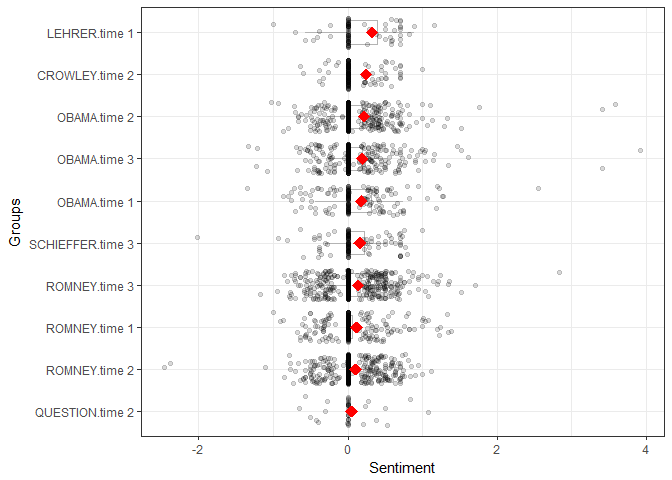
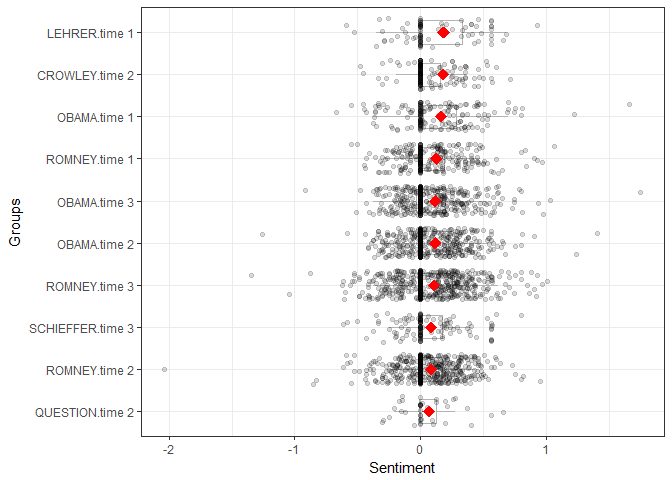
* `sentimentr` now uses the Jockers (2017) dictionary by default rather than the   Hu & Liu (2004).  THis may result in breaks to backwards compatibility,   hence the major version bump (1.0.0).

diff --git a/README.md b/README.md
@@ -11,7 +11,7 @@ Status](https://travis-ci.org/trinker/sentimentr.svg?branch=master)](https://tra
 Status](https://coveralls.io/repos/trinker/sentimentr/badge.svg?branch=master)](https://coveralls.io/r/trinker/sentimentr?branch=master)
 [![DOI](https://zenodo.org/badge/5398/trinker/sentimentr.svg)](https://zenodo.org/badge/latestdoi/5398/trinker/sentimentr)
 [![](http://cranlogs.r-pkg.org/badges/sentimentr)](https://cran.r-project.org/package=sentimentr)
-<a href="https://img.shields.io/badge/Version-0.5.3-orange.svg"><img src="https://img.shields.io/badge/Version-0.5.4-orange.svg" alt="Version"/></a>
+<a href="https://img.shields.io/badge/Version-1.0.0-orange.svg"><img src="https://img.shields.io/badge/Version-1.0.0-orange.svg" alt="Version"/></a>
 </p>
 <img src="inst/sentimentr_logo/r_sentimentr.png" width="150" alt="readability Logo">
 
@@ -109,52 +109,52 @@ why does it matter?***
 <tbody>
 <tr class="odd">
 <td align="left">Cannon reviews</td>
-<td align="right">20%</td>
+<td align="right">21%</td>
 <td align="right">23%</td>
-<td align="right">9%</td>
+<td align="right">8%</td>
 <td align="right">12%</td>
 </tr>
 <tr class="even">
 <td align="left">2012 presidential debate</td>
 <td align="right">23%</td>
-<td align="right">20%</td>
+<td align="right">18%</td>
 <td align="right">1%</td>
 <td align="right">11%</td>
 </tr>
 <tr class="odd">
 <td align="left">Trump speeches</td>
 <td align="right">12%</td>
-<td align="right">15%</td>
-<td align="right">2%</td>
+<td align="right">14%</td>
+<td align="right">3%</td>
 <td align="right">10%</td>
 </tr>
 <tr class="even">
 <td align="left">Trump tweets</td>
-<td align="right">20%</td>
+<td align="right">19%</td>
 <td align="right">18%</td>
 <td align="right">4%</td>
-<td align="right">5%</td>
+<td align="right">4%</td>
 </tr>
 <tr class="odd">
 <td align="left">Dylan songs</td>
-<td align="right">19%</td>
-<td align="right">6%</td>
-<td align="right">2%</td>
-<td align="right">7%</td>
+<td align="right">4%</td>
+<td align="right">10%</td>
+<td align="right">0%</td>
+<td align="right">4%</td>
 </tr>
 <tr class="even">
 <td align="left">Austen books</td>
 <td align="right">21%</td>
-<td align="right">19%</td>
+<td align="right">18%</td>
 <td align="right">6%</td>
 <td align="right">11%</td>
 </tr>
 <tr class="odd">
 <td align="left">Hamlet</td>
-<td align="right">27%</td>
-<td align="right">18%</td>
+<td align="right">26%</td>
+<td align="right">17%</td>
 <td align="right">2%</td>
-<td align="right">18%</td>
+<td align="right">16%</td>
 </tr>
 </tbody>
 </table>
@@ -255,9 +255,9 @@ The equation below describes the augmented dictionary method of
 **sentimentr** that may give better results than a simple lookup
 dictionary approach that does not consider valence shifters. The
 equation used by the algorithm to assign value to polarity of each
-sentence fist utilizes the a sentiment dictionary (e.g., Hu and Liu,
-[2004](http://www.cs.uic.edu/~liub/publications/kdd04-revSummary.pdf))
-to tag polarized words. Each paragraph
+sentence fist utilizes the a sentiment dictionary (e.g., Jockers,
+[(2017)](https://github.com/mjockers/syuzhet)) to tag polarized words.
+Each paragraph
 (*p*<sub>*i*</sub> = {*s*<sub>1</sub>, *s*<sub>2</sub>, ..., *s*<sub>*n*</sub>})
 composed of sentences, is broken into element sentences
 (*s*<sub>*i*</sub>, *j* = {*w*<sub>1</sub>, *w*<sub>2</sub>, ..., *w*<sub>*n*</sub>})
@@ -274,10 +274,12 @@ For example it may be a cell level response in a questionnaire composed
 of sentences.
 
 The words in each sentence (*w*<sub>*i*, *j*, *k*</sub>) are searched
-and compared to a dictionary of polarized words (e.g., the modified
-version of Hu, M., & Liu, B.'s (2004) dictionary in the
-[**lexicon**](https://cran.r-project.org/package=lexicon) package).
-Positive (*w*<sub>*i*, *j*, *k*</sub><sup>+</sup>) and negative
+and compared to a dictionary of polarized words (e.g., a slightly
+modified version of Jocker's (2017) dictionary in the
+[**lexicon**](https://cran.r-project.org/package=lexicon) package
+originally exported by the
+[**syuzhet**](https://github.com/mjockers/syuzhet) package). Positive
+(*w*<sub>*i*, *j*, *k*</sub><sup>+</sup>) and negative
 (*w*<sub>*i*, *j*, *k*</sub><sup>−</sup>) words are tagged with a +1 and
 −1 respectively (or other positive/negative weighting if the user
 provides the sentiment dictionary). I will denote polarized words as
@@ -406,10 +408,10 @@ Examples
     sentiment(mytext)
 
     ##    element_id sentence_id word_count  sentiment
-    ## 1:          1           1          4  0.5000000
-    ## 2:          1           2          6 -2.6781088
-    ## 3:          2           1          5  0.4472136
-    ## 4:          3           1          5  0.8049845
+    ## 1:          1           1          4  0.2500000
+    ## 2:          1           2          6 -2.0085816
+    ## 3:          2           1          5  0.5813777
+    ## 4:          3           1          5  0.4024922
     ## 5:          3           2          4  0.0000000
 
 To aggregate by element (column cell or vector element) use
@@ -423,9 +425,9 @@ To aggregate by element (column cell or vector element) use
     sentiment_by(mytext)
 
     ##    element_id word_count       sd ave_sentiment
-    ## 1:          1         10 2.247262    -1.0890544
-    ## 2:          2          5       NA     0.4472136
-    ## 3:          3          9 0.569210     0.4392690
+    ## 1:          1         10 1.597058    -0.8792908
+    ## 2:          2          5       NA     0.5813777
+    ## 3:          3          9 0.284605     0.2196345
 
 To aggregate by grouping variables use `sentiment_by` using the `by`
 argument.
@@ -433,16 +435,16 @@ argument.
     (out <- with(presidential_debates_2012, sentiment_by(dialogue, list(person, time))))
 
     ##        person   time word_count        sd ave_sentiment
-    ##  1:     OBAMA time 1       3598 0.4489512    0.17963450
-    ##  2:     OBAMA time 2       7476 0.3878883    0.21629706
-    ##  3:     OBAMA time 3       7241 0.4408708    0.19103322
-    ##  4:    ROMNEY time 1       4085 0.3669465    0.11715169
-    ##  5:    ROMNEY time 2       7534 0.3271200    0.10396263
-    ##  6:    ROMNEY time 3       8302 0.3866709    0.13649872
-    ##  7:   CROWLEY time 2       1672 0.2356299    0.24872950
-    ##  8:    LEHRER time 1        765 0.3634981    0.32699539
-    ##  9:  QUESTION time 2        583 0.3282897    0.04967577
-    ## 10: SCHIEFFER time 3       1445 0.3810998    0.16056579
+    ##  1:     OBAMA time 1       3598 0.3015097    0.16673169
+    ##  2:     OBAMA time 2       7476 0.2399589    0.11663216
+    ##  3:     OBAMA time 3       7241 0.2614870    0.11842952
+    ##  4:    ROMNEY time 1       4085 0.2505313    0.12462353
+    ##  5:    ROMNEY time 2       7534 0.2382667    0.08540709
+    ##  6:    ROMNEY time 3       8302 0.2846332    0.10652350
+    ##  7:   CROWLEY time 2       1672 0.1878174    0.17977897
+    ##  8:    LEHRER time 1        765 0.2847680    0.18338771
+    ##  9:  QUESTION time 2        583 0.2076347    0.06625726
+    ## 10: SCHIEFFER time 3       1445 0.2471048    0.08780297
 
 Plotting
 --------
@@ -572,10 +574,11 @@ approach as it works more reliably on my own Windows machine), the
 lookup based
 [SentimentAnalysis](https://github.com/sfeuerriegel/SentimentAnalysis)
 package, the [meanr](https://github.com/wrathematics/meanr) package
-(written in C level code), and my own algorithm with both the default Hu
-& Liu (2004) polarity lexicon as well as [Baccianella, Esuli and
-Sebastiani's (2010)](http://sentiwordnet.isti.cnr.it/) SentiWord lexicon
-from the [**lexicon**](https://github.com/trinker/lexicon) package.
+(written in C level code), and my own algorithm with default Jockers
+(2017) polarity lexicon as well as Hu & Liu (2004) and [Baccianella,
+Esuli and Sebastiani's (2010)](http://sentiwordnet.isti.cnr.it/)
+SentiWord lexicons available from the
+[**lexicon**](https://github.com/trinker/lexicon) package.
 
     if (!require("pacman")) install.packages("pacman")
     pacman::p_load_gh("trinker/sentimentr", "trinker/stansent", "sfeuerriegel/SentimentAnalysis", "wrathematics/meanr")
@@ -601,8 +604,9 @@ from the [**lexicon**](https://github.com/trinker/lexicon) package.
 
     left_just(data.frame(
         stanford = sentiment_stanford(ase)[["sentiment"]],
-        hu_liu = round(sentiment(ase, question.weight = 0)[["sentiment"]], 2),
-        sentiword = round(sentiment(ase, lexicon::hash_sentiword, question.weight = 0)[["sentiment"]], 2),    
+        sentimentr_jockers = round(sentiment(ase, question.weight = 0)[["sentiment"]], 2),
+        sentimentr_huliu = round(sentiment(ase, lexicon::hash_sentiment_huliu, question.weight = 0)[["sentiment"]], 2),    
+        sentimentr_sentiword = round(sentiment(ase, lexicon::hash_sentiment_sentiword, question.weight = 0)[["sentiment"]], 2),    
         RSentiment = calculate_score(ase), 
         SentimentAnalysis,
         meanr = score(ase)[['score']],
@@ -611,26 +615,36 @@ from the [**lexicon**](https://github.com/trinker/lexicon) package.
         stringsAsFactors = FALSE
     ), "sentences")
 
-      stanford hu_liu sentiword RSentiment SA_GI SA_LM SA_QDAP meanr syuzhet
-    1     -0.5   0.35      0.18         -1 -0.25     0   -0.25    -1    -0.5
-    2        1    0.8      0.65          1  0.33  0.33       0     1    0.75
-    3      0.5    0.5      0.32          1   0.5   0.5     0.5     1    0.75
-    4     -0.5      0         0          0     0  0.25    0.25     1    0.75
-    5     -0.5  -0.41     -0.56         -1     1     1       1     1    0.75
-    6     -0.5   0.06      0.11          1  0.17  0.17    0.33     1    0.75
-    7     -0.5  -0.38     -0.05          0   0.5   0.5     0.5     1    0.75
-    8        0      0     -0.14          0     0     0       0     0   -0.25
-    9     -0.5   0.38      0.24         -1 -0.33 -0.33   -0.33    -1   -0.75
-      bing afinn nrc sentences                                              
-    1   -1    -2   0 I haven't been sad in a long time.                     
-    2    1     3   1 I am extremely happy today.                            
-    3    1     3   1 It's a good day.                                       
-    4    1     3   1 But suddenly I'm only a little bit happy.              
-    5    1     3   1 Then I'm not happy at all.                             
-    6    1     3   1 In fact, I am now the least happy person on the planet.
-    7    1     2   1 There is no happiness left in me.                      
-    8    0     0  -1 Wait, it's returned!                                   
-    9   -1    -3  -1 I don't feel so bad after all!                         
+      stanford sentimentr_jockers sentimentr_huliu sentimentr_sentiword
+    1     -0.5               0.18             0.35                 0.18
+    2        1                0.6              0.8                 0.65
+    3      0.5               0.38              0.5                 0.32
+    4     -0.5                  0                0                    0
+    5     -0.5              -0.31            -0.41                -0.56
+    6     -0.5               0.04             0.06                 0.11
+    7     -0.5              -0.28            -0.38                -0.05
+    8        0              -0.14                0                -0.14
+    9     -0.5               0.28             0.38                 0.24
+      RSentiment SA_GI SA_LM SA_QDAP meanr syuzhet bing afinn nrc
+    1         -1 -0.25     0   -0.25    -1    -0.5   -1    -2   0
+    2          1  0.33  0.33       0     1    0.75    1     3   1
+    3          1   0.5   0.5     0.5     1    0.75    1     3   1
+    4          0     0  0.25    0.25     1    0.75    1     3   1
+    5         -1     1     1       1     1    0.75    1     3   1
+    6          1  0.17  0.17    0.33     1    0.75    1     3   1
+    7          0   0.5   0.5     0.5     1    0.75    1     2   1
+    8          0     0     0       0     0   -0.25    0     0  -1
+    9         -1 -0.33 -0.33   -0.33    -1   -0.75   -1    -3  -1
+      sentences                                              
+    1 I haven't been sad in a long time.                     
+    2 I am extremely happy today.                            
+    3 It's a good day.                                       
+    4 But suddenly I'm only a little bit happy.              
+    5 Then I'm not happy at all.                             
+    6 In fact, I am now the least happy person on the planet.
+    7 There is no happiness left in me.                      
+    8 Wait, it's returned!                                   
+    9 I don't feel so bad after all!                         
 
 Also of interest is the computational time used by each of these
 methods. To demonstrate this I increased Annie's examples by 100
@@ -650,8 +664,9 @@ dictionaries.
 
     stanford <- function() {sentiment_stanford(ase_100)}
 
-    sentimentr_hu_liu <- function() sentiment(ase_100)
-    sentimentr_sentiword <- function() sentiment(ase_100, lexicon::hash_sentiword) 
+    sentimentr_jockers <- function() sentiment(ase_100, lexicon::hash_sentiment_jockers)
+    sentimentr_huliu <- function() sentiment(ase_100, lexicon::hash_sentiment_huliu)
+    sentimentr_sentiword <- function() sentiment(ase_100, lexicon::hash_sentiment_sentiword) 
         
     RSentiment <- function() calculate_score(ase_100) 
         
@@ -666,7 +681,7 @@ dictionaries.
          
     microbenchmark(
         stanford(),
-        sentimentr_hu_liu(),
+        sentimentr_huliu(),
         sentimentr_sentiword(),
         RSentiment(), 
         SentimentAnalysis(),
@@ -679,28 +694,28 @@ dictionaries.
     )
 
     Unit: milliseconds
-                       expr           min            lq          mean
-                 stanford()  25342.088248  25667.271198  25858.924573
-        sentimentr_hu_liu()    261.527030    265.817862    272.531057
-     sentimentr_sentiword()    901.600518    954.936520    973.222623
-               RSentiment() 133102.352640 137742.101795 140458.324079
-        SentimentAnalysis()   2306.062342   2388.762099   2480.423685
-          syuzhet_syuzhet()    444.586220    452.511008    481.272012
-             syuzhet_binn()    368.831276    377.697653    381.947704
-              syuzhet_nrc()    876.016053    961.488028   1024.621048
-            syuzhet_afinn()    171.294969    178.924984    182.295711
-                    meanr()      1.025546      1.051821      1.062496
+                       expr           min            lq         mean
+                 stanford()  24031.166672  25266.565877  25865.07032
+         sentimentr_huliu()    248.722892    250.264496    253.01598
+     sentimentr_sentiword()    996.839200   1012.654905   1019.49852
+               RSentiment() 204083.517567 204084.426107 205219.49003
+        SentimentAnalysis()   8119.467521   8289.089715   8560.45612
+          syuzhet_syuzhet()    493.584589    495.565067    502.94410
+             syuzhet_binn()    377.382969    387.410989    397.03202
+              syuzhet_nrc()    757.363058    800.587083    823.19960
+            syuzhet_afinn()    166.485000    168.052674    174.55991
+                    meanr()      1.006661      1.146453      1.19825
             median            uq           max neval
-      25992.454148  26117.342736  26242.231323     3
-        270.108693    278.033070    285.957447     3
-       1008.272522   1009.033676   1009.794829     3
-     142381.850951 144136.309799 145890.768647     3
-       2471.461855   2567.604356   2663.746857     3
-        460.435796    499.614908    538.794019     3
-        386.564030    388.505918    390.447805     3
-       1046.960003   1098.923546   1150.887089     3
-        186.554999    187.796082    189.037165     3
-          1.078097      1.080971      1.083845     3
+      26501.965083  26782.022150  27062.079216     3
+        251.806100    255.162527    258.518953     3
+       1028.470610   1030.828177   1033.185743     3
+     204085.334648 205787.476266 207489.617884     3
+       8458.711909   8780.950416   9103.188924     3
+        497.545545    507.623857    517.702169     3
+        397.439008    406.856545    416.274082     3
+        843.811108    856.117868    868.424629     3
+        169.620348    178.597367    187.574386     3
+          1.286244      1.294045      1.301845     3
 
 Comparing sentimentr, syuzhet, meanr, and Stanford
 --------------------------------------------------

diff --git a/NEWS.md b/NEWS.md
@@ -17,7 +17,7 @@ And constructed with the following guidelines:
 * Bug fixes and misc changes bumps the patch
 
 
-sentimentr 0.5.0 - 
+sentimentr 0.5.0 - 1.0.0
 ----------------------------------------------------------------
 
 **BUG FIXES**
@@ -44,8 +44,8 @@ sentimentr 0.5.0 -
 
 **MINOR FEATURES**
 
-* `sentiment_by` picks becomes a method function that now accepts `sentiment_by`
-  and `sentiment` oectes for `text.var` argument in addition to default
+* `sentiment_by` becomes a method function that now accepts `sentiment_by`
+  and `sentiment` objects for `text.var` argument in addition to default
   `character`.
 
 **IMPROVEMENTS**
@@ -75,6 +75,9 @@ sentimentr 0.5.0 -
 * `but.weight` argument in `sentiment` function renamed to `adversative.weight`
   to better describe the function with a linguistics term.
 
+* `sentimentr` now uses the Jockers (2017) dictionary by default rather than the 
+  Hu & Liu (2004).  THis may result in breaks to backwards compatibility,
+  hence the major version bump (1.0.0).
 
 sentimentr 0.3.0 - 0.4.0
 ----------------------------------------------------------------
